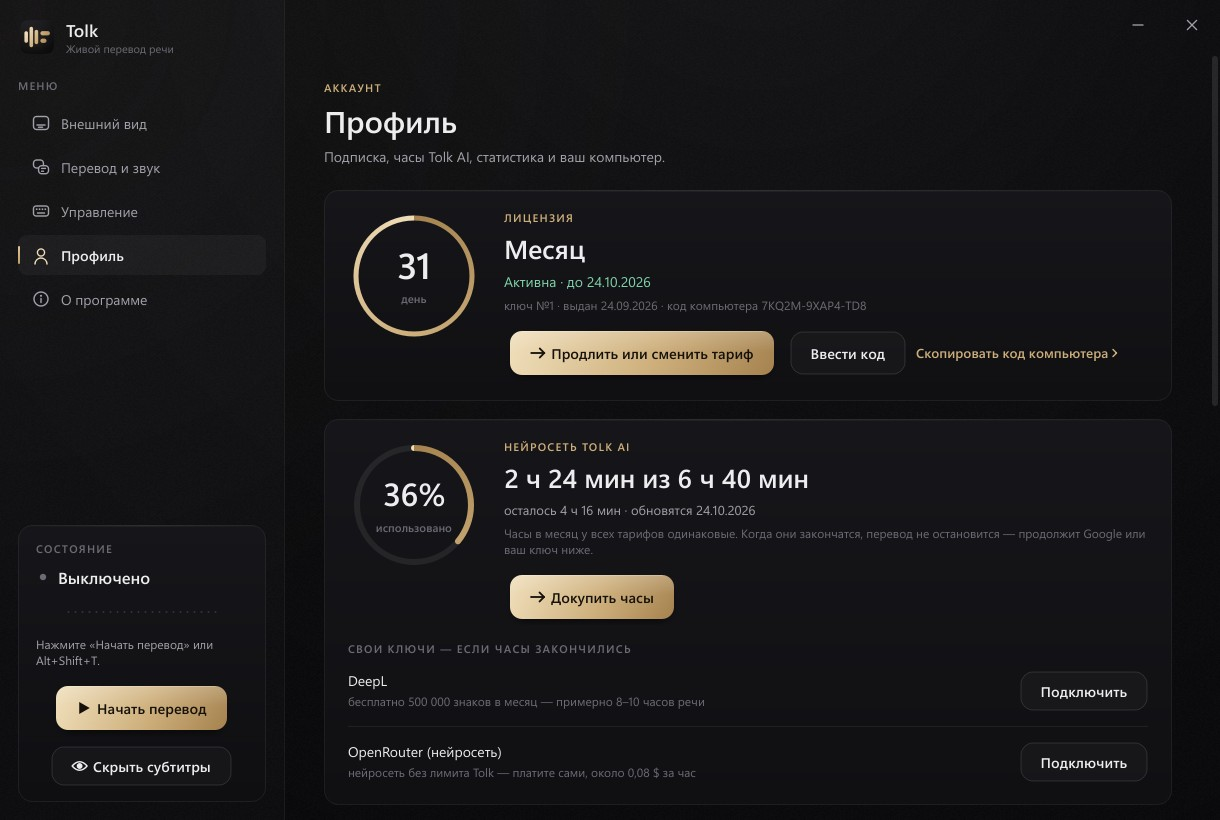
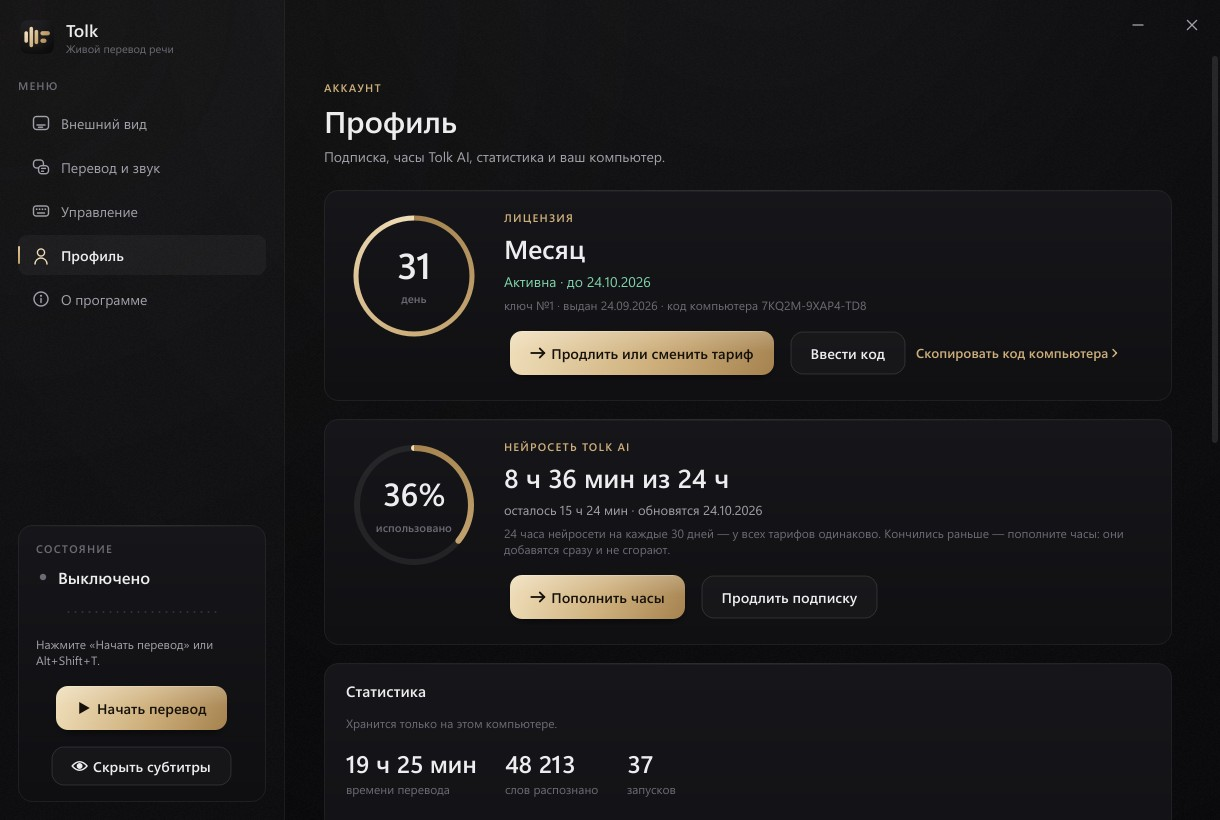
Страница продаж

diff --git a/docs/index.html b/docs/index.html
@@ -250,6 +250,20 @@
                       background: conic-gradient(from var(--ang), rgba(214,184,130,.15), var(--gold-a), rgba(214,184,130,.15) 35%, rgba(214,184,130,.15) 60%, var(--gold-b), rgba(214,184,130,.15));
                       -webkit-mask: linear-gradient(#000 0 0) content-box, linear-gradient(#000 0 0); -webkit-mask-composite: xor; mask-composite: exclude; animation: spin 8s linear infinite; }
   @keyframes spin { to { --ang: 360deg; } }
+  .trial { position: relative; display: inline-flex; align-items: center; gap: 12px; margin: 22px 0 4px; padding: 6px 18px 6px 6px;
+           border-radius: 999px; background: rgba(214,184,130,.06); color: var(--text2); font-size: 14px; text-decoration: none;
+           transition: transform .5s var(--spring), background .4s; }
+  .trial:after { content: ""; position: absolute; inset: 0; border-radius: inherit; padding: 1px; pointer-events: none;
+                 background: conic-gradient(from var(--ang), rgba(214,184,130,.12), var(--gold-a), rgba(214,184,130,.12) 30%, rgba(214,184,130,.12) 65%, var(--gold-b), rgba(214,184,130,.12));
+                 -webkit-mask: linear-gradient(#000 0 0) content-box, linear-gradient(#000 0 0); -webkit-mask-composite: xor; mask-composite: exclude; animation: spin 5s linear infinite; }
+  .trial:hover { transform: translateY(-2px); background: rgba(214,184,130,.1); }
+  .trial .t30 { position: relative; width: 38px; height: 38px; border-radius: 50%; display: grid; place-items: center; flex: none;
+                font: 700 15px/1 inherit; color: var(--gold-a); background: radial-gradient(circle at 50% 35%, rgba(243,228,194,.16), rgba(0,0,0,.2)); }
+  .trial .t30:before { content: ""; position: absolute; inset: 0; border-radius: 50%; padding: 2px;
+                       background: conic-gradient(from var(--ang), var(--gold-a), rgba(214,184,130,.1) 70%, var(--gold-a));
+                       -webkit-mask: linear-gradient(#000 0 0) content-box, linear-gradient(#000 0 0); -webkit-mask-composite: xor; mask-composite: exclude; animation: spin 2.6s linear infinite; }
+  .trial b { color: var(--text); font-weight: 600; }
+  @media (prefers-reduced-motion: reduce) { .trial:after, .trial .t30:before { animation: none; } }
   .pay { display: flex; justify-content: center; flex-wrap: wrap; gap: 10px; margin-top: 30px; }
   .pay span { display: inline-flex; align-items: center; gap: 8px; padding: 8px 14px; border-radius: 11px; border: 1px solid var(--line); color: var(--text2); font-size: 14px; background: rgba(255,255,255,.02); }
   .note { color: var(--text3); font-size: 13.5px; margin: 18px auto 0; max-width: 760px; text-align: center; }
@@ -417,6 +431,7 @@
         <a class="btn gold-btn dl magnet" href="#"><svg viewBox="0 0 24 24" fill="none" stroke="currentColor" stroke-width="2.2" stroke-linecap="round" stroke-linejoin="round"><path d="M12 3v12m0 0l-5-5m5 5l5-5M4 19h16"/></svg><span data-i="cta_download"></span></a>
         <a class="btn glass magnet" href="#pricing" data-i="cta_prices"></a>
       </div>
+      <a class="trial dl" href="#"><span class="t30">30</span><span data-ih="trial_pill"></span></a>
       <div class="fine" data-i="hero_fine"></div>
     </div>
     <div class="stage" id="stage">
@@ -578,6 +593,7 @@
     <span>© Tolk</span>
     <a href="https://t.me/sethosint" target="_blank" rel="noopener" data-i="foot_tg"></a>
     <a href="https://github.com/sethosint/tolk-releases/releases" target="_blank" rel="noopener" data-i="foot_versions"></a>
+    <a href="privacy.html" data-i="foot_privacy"></a>
   </div>
 </footer>
 
@@ -595,15 +611,15 @@ const TG = "https://t.me/sethosint";
 
 // Тарифы на случай, если магазин не ответил (настоящие — загружаются из магазина)
 const FALLBACK = {
-  month_h: 6.67,
+  month_h: 24,
   plans: [
-    { id: "week", price: "1.5", currency: "EUR", days: 7, ai_h: 1.56, per_month: 6.43 },
-    { id: "month", price: "5", currency: "EUR", days: 31, ai_h: 6.67, per_month: 5 },
-    { id: "quarter", price: "13", currency: "EUR", days: 92, ai_h: 6.67, per_month: 4.33 },
-    { id: "half", price: "24", currency: "EUR", days: 183, ai_h: 6.67, per_month: 4 },
-    { id: "year", price: "42", currency: "EUR", days: 366, ai_h: 6.67, per_month: 3.5, best: true }],
-  topups: [{ id: "h5", hours: 5, price: "1.5", currency: "EUR" }, { id: "h15", hours: 15, price: "4", currency: "EUR" },
-           { id: "h40", hours: 40, price: "9", currency: "EUR" }],
+    { id: "week", price: "1.5", currency: "EUR", days: 7, ai_h: 6, per_month: 6.43 },
+    { id: "month", price: "5", currency: "EUR", days: 31, ai_h: 24, per_month: 5 },
+    { id: "quarter", price: "13", currency: "EUR", days: 92, ai_h: 24, per_month: 4.33 },
+    { id: "half", price: "24", currency: "EUR", days: 183, ai_h: 24, per_month: 4 },
+    { id: "year", price: "42", currency: "EUR", days: 366, ai_h: 24, per_month: 3.5, best: true }],
+  topups: [{ id: "h6", hours: 6, price: "1.5", currency: "EUR" }, { id: "h24", hours: 24, price: "4", currency: "EUR" },
+           { id: "h60", hours: 60, price: "8", currency: "EUR" }],
   methods: [],
 };
 
@@ -646,7 +662,7 @@ const T = {
     hours_title: "+%s Tolk AI", hours_sub: "не сгорают до конца подписки", per_hour: "%s за час",
     hours_feats: ["Добавятся к вашему ключу", "Действуют до конца подписки", "Переезжают при продлении"],
     h: "ч", m: "мин",
-    p_note: "Когда часы Tolk AI закончились, перевод не останавливается: Tolk переводит через Google или ваш бесплатный ключ DeepL. Часы обновляются каждые 30 дней, докупленные не сгорают.",
+    p_note: "24 часа нейросети на каждые 30 дней — это все пары за месяц. Кончились раньше — пополните часы в пару кликов: добавятся сразу и не сгорают, а перевод тем временем не останавливается.",
     pay_card: "Банковская карта", pay_stars: "Звёзды Telegram",
     so_over: "Скоро", so_h2: "Что появится в Tolk", so_sub: "Уже в работе — придут сами, с автообновлением.", soon: "Скоро",
     so1_t: "Озвучка перевода", so1_p: "Tolk читает перевод голосом и приглушает оригинал — как дубляж в кино.",
@@ -660,7 +676,8 @@ const T = {
     q_over: "Вопросы", q_h2: "Частые вопросы",
     faq: [
       ["Подойдёт для лекций и конференций на словацком?", "Да, это главный сценарий. Онлайн-лекция или конференция — выберите вкладку браузера или программу (Zoom, Teams). Лекция в аудитории — микрофон ноутбука. Поставьте язык речи «Словацкий» — распознавание станет точнее и быстрее. Названия предметов и термины курса добавьте в словарь."],
-      ["Сколько часов нейросети я получу?", "В любом тарифе — 6 ч 40 мин живого перевода нейросетью Tolk AI в месяц: это примерно 5–6 лекций со всеми паузами. Сколько осталось — видно в профиле. Не хватит — докупите часы на сайте или в Tolk, либо подключите свой бесплатный ключ DeepL. Перевод не останавливается никогда."],
+      ["Сколько часов нейросети я получу?", "В любом тарифе — 24 часа живого перевода нейросетью Tolk AI на каждые 30 дней (в недельном — 6 часов): этого хватает на все пары. Сколько использовано — видно в профиле: часы и проценты. Не хватит — пополните часы на сайте или прямо в Tolk, они добавятся сразу после оплаты. Перевод не останавливается никогда."],
+      ["Можно попробовать бесплатно?", "Да — 30 минут перевода нейросетью бесплатно, без оплаты и регистрации. Скачайте Tolk и в окне активации нажмите «Попробовать бесплатно». Понравится — выберите тариф, от 1,5 € в неделю."],
       ["Купил на сайте — что дальше?", "Вам придёт код активации вида TOLK-XXXX-XXXX-XXXX. Скачайте Tolk и вставьте код в окне активации — подписка привяжется к вашему компьютеру. Код на часы вводится в «Профиль → Ввести код»."],
       ["Как переводить только одну вкладку браузера?", "В Tolk откройте «Перевод и звук → Расширение для вкладок» и подключите расширение (около минуты). Потом нажимайте значок Tolk на нужной вкладке — Tolk сразу переводит только её. Работает в Chrome, Edge, Opera, Yandex, Brave, Vivaldi и Firefox."],
       ["Windows пишет «Система Windows защитила ваш компьютер» — это нормально?", "Да. Так Windows реагирует на новые программы без платной цифровой подписи. Нажмите «Подробнее» → «Выполнить в любом случае»."],
@@ -668,7 +685,7 @@ const T = {
       ["Какие языки?", "Распознаёт речь на 90+ языках и переводит на 30+. Интерфейс — на русском, украинском, словацком и английском."],
       ["Что с приватностью?", "Звук никуда не отправляется: речь распознаётся на вашем компьютере. Для перевода уходит только распознанный текст."]],
     fin_a: "Смотрите и понимайте", fin_b: "на любом языке",
-    foot_tg: "Поддержка — Telegram @sethosint", foot_versions: "Все версии",
+    foot_tg: "Поддержка — Telegram @sethosint", foot_versions: "Все версии", foot_privacy: "Конфиденциальность", trial_pill: "<b>30 минут бесплатно</b> — без оплаты и регистрации",
     demo: [["Toto bude určite na skúške, takže si to zapíšte.", "Это точно будет на экзамене, так что запишите."],
            ["Zápočet dostanete, ak odovzdáte obe zadania načas.", "Зачёт получите, если сдадите оба задания вовремя."],
            ["Thanks for joining the call, let's get started.", "Спасибо, что подключились, давайте начнём."],
@@ -725,7 +742,7 @@ const T = {
     hours_title: "+%s Tolk AI", hours_sub: "не згорають до кінця підписки", per_hour: "%s за годину",
     hours_feats: ["Додадуться до вашого ключа", "Діють до кінця підписки", "Переходять при продовженні"],
     h: "год", m: "хв",
-    p_note: "Коли години Tolk AI закінчилися, переклад не зупиняється: Tolk перекладає через Google або ваш безкоштовний ключ DeepL. Години оновлюються кожні 30 днів, докуплені не згорають.",
+    p_note: "24 години нейромережі на кожні 30 днів — це всі пари за місяць. Закінчилися раніше — поповніть години у два кліки: додадуться одразу й не згорають, а переклад тим часом не зупиняється.",
     pay_card: "Банківська картка", pay_stars: "Зірки Telegram",
     so_over: "Незабаром", so_h2: "Що з'явиться в Tolk", so_sub: "Уже в роботі — прийдуть самі, з автооновленням.", soon: "Незабаром",
     so1_t: "Озвучення перекладу", so1_p: "Tolk читає переклад голосом і приглушує оригінал — як дубляж у кіно.",
@@ -739,7 +756,8 @@ const T = {
     q_over: "Питання", q_h2: "Часті питання",
     faq: [
       ["Підійде для лекцій і конференцій словацькою?", "Так, це головний сценарій. Онлайн-лекція чи конференція — оберіть вкладку браузера або програму (Zoom, Teams). Лекція в аудиторії — мікрофон ноутбука. Поставте мову мовлення «Словацька» — розпізнавання стане точнішим і швидшим. Назви предметів і терміни курсу додайте до словника."],
-      ["Скільки годин нейромережі я отримаю?", "У будь-якому тарифі — 6 год 40 хв живого перекладу нейромережею Tolk AI на місяць: це приблизно 5–6 лекцій з усіма паузами. Скільки лишилося — видно в профілі. Не вистачить — докупіть години на сайті чи в Tolk або підключіть свій безкоштовний ключ DeepL. Переклад не зупиняється ніколи."],
+      ["Скільки годин нейромережі я отримаю?", "У будь-якому тарифі — 24 години живого перекладу нейромережею Tolk AI на кожні 30 днів (у тижневому — 6 годин): цього вистачає на всі пари. Скільки використано — видно в профілі: години й відсотки. Не вистачить — поповніть години на сайті або просто в Tolk, вони додадуться одразу після оплати. Переклад не зупиняється ніколи."],
+      ["Можна спробувати безкоштовно?", "Так — 30 хвилин перекладу нейромережею безкоштовно, без оплати й реєстрації. Завантажте Tolk і у вікні активації натисніть «Спробувати безкоштовно». Сподобається — оберіть тариф, від 1,5 € на тиждень."],
       ["Купив на сайті — що далі?", "Вам прийде код активації вигляду TOLK-XXXX-XXXX-XXXX. Завантажте Tolk і вставте код у вікні активації — підписка прив'яжеться до вашого комп'ютера. Код на години вводиться в «Профіль → Ввести код»."],
       ["Як перекладати лише одну вкладку браузера?", "У Tolk відкрийте «Переклад і звук → Розширення для вкладок» і підключіть розширення (близько хвилини). Потім натискайте значок Tolk на потрібній вкладці — Tolk одразу перекладає лише її. Працює в Chrome, Edge, Opera, Yandex, Brave, Vivaldi і Firefox."],
       ["Windows пише «Систему Windows захищено» — це нормально?", "Так. Так Windows реагує на нові програми без платного цифрового підпису. Натисніть «Докладніше» → «Усе одно запустити»."],
@@ -747,7 +765,7 @@ const T = {
       ["Які мови?", "Розпізнає мовлення 90+ мовами й перекладає на 30+. Інтерфейс — українською, російською, словацькою та англійською."],
       ["Що з приватністю?", "Звук нікуди не надсилається: мовлення розпізнається на вашому комп'ютері. Для перекладу йде лише розпізнаний текст."]],
     fin_a: "Дивіться й розумійте", fin_b: "будь-якою мовою",
-    foot_tg: "Підтримка — Telegram @sethosint", foot_versions: "Усі версії",
+    foot_tg: "Підтримка — Telegram @sethosint", foot_versions: "Усі версії", foot_privacy: "Конфіденційність", trial_pill: "<b>30 хвилин безкоштовно</b> — без оплати й реєстрації",
     demo: [["Toto bude určite na skúške, takže si to zapíšte.", "Це точно буде на іспиті, тож запишіть."],
            ["Zápočet dostanete, ak odovzdáte obe zadania načas.", "Залік отримаєте, якщо здасте обидва завдання вчасно."],
            ["Thanks for joining the call, let's get started.", "Дякую, що долучилися, почнімо."],
@@ -804,7 +822,7 @@ const T = {
     hours_title: "+%s Tolk AI", hours_sub: "nepropadnú do konca predplatného", per_hour: "%s za hodinu",
     hours_feats: ["Pridajú sa k vášmu kľúču", "Platia do konca predplatného", "Pri predĺžení sa presunú"],
     h: "h", m: "min",
-    p_note: "Keď sa hodiny Tolk AI minú, preklad sa nezastaví: Tolk prekladá cez Google alebo váš bezplatný kľúč DeepL. Hodiny sa obnovujú každých 30 dní, dokúpené nepropadnú.",
+    p_note: "24 hodín neurónovej siete na každých 30 dní — to sú všetky prednášky za mesiac. Minuli sa skôr? Doplňte hodiny na pár kliknutí: pridajú sa hneď a nepropadajú, a preklad sa medzitým nezastaví.",
     pay_card: "Platobná karta", pay_stars: "Hviezdy Telegram",
     so_over: "Čoskoro", so_h2: "Čo pribudne v Tolku", so_sub: "Už na tom pracujeme — prídu samy s automatickou aktualizáciou.", soon: "Čoskoro",
     so1_t: "Dabing prekladu", so1_p: "Tolk číta preklad nahlas a stlmí originál — ako dabing vo filme.",
@@ -818,7 +836,8 @@ const T = {
     q_over: "Otázky", q_h2: "Časté otázky",
     faq: [
       ["Hodí sa na prednášky a konferencie?", "Áno, na to je stavaný. Online prednáška či konferencia — vyberte kartu prehliadača alebo program (Zoom, Teams). Prednáška v posluchárni — mikrofón notebooku. Nastavte jazyk reči, napríklad angličtinu — rozpoznávanie bude presnejšie a rýchlejšie. Názvy predmetov a termíny pridajte do slovníka."],
-      ["Koľko hodín neurónovej siete dostanem?", "V každom pláne 6 h 40 min živého prekladu neurónovou sieťou Tolk AI mesačne — približne 5–6 prednášok so všetkými pauzami. Koľko zostáva, vidno v profile. Ak nebude stačiť, dokúpte hodiny na stránke či v Tolku, alebo pripojte vlastný bezplatný kľúč DeepL. Preklad sa nikdy nezastaví."],
+      ["Koľko hodín neurónovej siete dostanem?", "V každom pláne 24 hodín živého prekladu neurónovou sieťou Tolk AI na každých 30 dní (v týždennom 6 hodín): stačí to na všetky prednášky. Koľko ste využili, vidno v profile — hodiny aj percentá. Ak nebude stačiť, doplňte hodiny na stránke alebo priamo v Tolku, pridajú sa hneď po zaplatení. Preklad sa nikdy nezastaví."],
+      ["Dá sa to vyskúšať zadarmo?", "Áno — 30 minút prekladu neurónovou sieťou zadarmo, bez platby a registrácie. Stiahnite Tolk a v okne aktivácie kliknite na „Vyskúšať zadarmo“. Ak sa vám zapáči, vyberte si plán od 1,5 € týždenne."],
       ["Kúpil som na stránke — čo ďalej?", "Dostanete aktivačný kód v tvare TOLK-XXXX-XXXX-XXXX. Stiahnite Tolk a kód vložte v okne aktivácie — predplatné sa naviaže na váš počítač. Kód na hodiny sa zadáva v „Profil → Zadať kód“."],
       ["Ako prekladať len jednu kartu prehliadača?", "V Tolku otvorte „Preklad a zvuk → Rozšírenie pre karty“ a pripojte rozšírenie (asi minúta). Potom klikajte na ikonu Tolk na požadovanej karte — Tolk hneď prekladá len ju. Funguje v Chrome, Edge, Opere, Yandex, Brave, Vivaldi a Firefoxe."],
       ["Windows píše „Systém Windows ochránil váš počítač“ — je to v poriadku?", "Áno. Tak Windows reaguje na nové programy bez plateného digitálneho podpisu. Kliknite na „Ďalšie informácie“ → „Spustiť aj tak“."],
@@ -826,7 +845,7 @@ const T = {
       ["Aké jazyky?", "Rozpozná reč v 90+ jazykoch a prekladá do 30+. Rozhranie — slovensky, ukrajinsky, rusky a anglicky."],
       ["A súkromie?", "Zvuk sa nikam neposiela: reč sa rozpoznáva vo vašom počítači. Na preklad ide iba rozpoznaný text."]],
     fin_a: "Pozerajte a rozumejte", fin_b: "v akomkoľvek jazyku",
-    foot_tg: "Podpora — Telegram @sethosint", foot_versions: "Všetky verzie",
+    foot_tg: "Podpora — Telegram @sethosint", foot_versions: "Všetky verzie", foot_privacy: "Ochrana súkromia", trial_pill: "<b>30 minút zadarmo</b> — bez platby a registrácie",
     demo: [["This will definitely be on the exam, so write it down.", "Toto bude určite na skúške, tak si to zapíšte."],
            ["Thanks for joining the call, let's get started.", "Vďaka, že ste sa pripojili, poďme na to."],
            ["No cap, that last round was insane.", "Bez preháňania, posledné kolo bolo úplne šialené."]],
@@ -882,7 +901,7 @@ const T = {
     hours_title: "+%s Tolk AI", hours_sub: "don't expire until your subscription ends", per_hour: "%s per hour",
     hours_feats: ["Added to your key", "Valid until your subscription ends", "Move over when you renew"],
     h: "h", m: "min",
-    p_note: "When your Tolk AI hours run out, translation doesn't stop: Tolk translates via Google or your free DeepL key. Hours renew every 30 days; bought hours don't expire.",
+    p_note: "24 hours of AI every 30 days — enough for every lecture in a month. Ran out early? Top up in a couple of clicks: hours are added right away and never expire, and translation keeps going meanwhile.",
     pay_card: "Bank card", pay_stars: "Telegram Stars",
     so_over: "Coming soon", so_h2: "What's coming to Tolk", so_sub: "Already in the works — they'll arrive with an automatic update.", soon: "Soon",
     so1_t: "Voice-over translation", so1_p: "Tolk reads the translation aloud and lowers the original — like dubbing in a film.",
@@ -896,7 +915,8 @@ const T = {
     q_over: "FAQ", q_h2: "Frequently asked questions",
     faq: [
       ["Is it good for lectures and conferences in Slovak?", "Yes, that's what it's built for. Online lecture or conference — pick a browser tab or an app (Zoom, Teams). A lecture in the room — your laptop mic. Set the speech language to Slovak for faster, more accurate recognition. Add course names and terms to the glossary."],
-      ["How many neural network hours do I get?", "Every plan includes 6 h 40 min of live Tolk AI translation a month — about 5–6 lectures with all the pauses. Your profile shows what's left. Need more? Buy hours here or in Tolk, or connect your own free DeepL key. Translation never stops."],
+      ["How many neural network hours do I get?", "Every plan includes 24 hours of live Tolk AI translation every 30 days (the weekly plan — 6 hours): enough for all your lectures. Your profile shows what's used, in hours and percent. Need more? Top up here or right in Tolk — the hours are added right after payment. Translation never stops."],
+      ["Can I try it for free?", "Yes — 30 minutes of AI translation for free, no payment and no sign-up. Download Tolk and click \"Try it free\" in the activation window. Like it? Plans start at €1.5 a week."],
       ["I bought on the website — what now?", "You get an activation code like TOLK-XXXX-XXXX-XXXX. Download Tolk and paste the code in the activation window — the subscription binds to your computer. An hours code goes into “Profile → Enter a code”."],
       ["How do I translate just one browser tab?", "In Tolk, open “Translation & sound → Extension for tabs” and connect the extension (about a minute). Then click the Tolk icon on the tab you need — Tolk translates only that tab. Works in Chrome, Edge, Opera, Yandex, Brave, Vivaldi and Firefox."],
       ["Windows says “Windows protected your PC” — is that OK?", "Yes. That's how Windows treats new apps without a paid code-signing certificate. Click “More info” → “Run anyway”."],
@@ -904,7 +924,7 @@ const T = {
       ["Which languages?", "Recognizes speech in 90+ languages and translates into 30+. The interface is in English, Ukrainian, Slovak and Russian."],
       ["What about privacy?", "Audio never leaves your computer: speech is recognized locally. Only the recognized text is sent for translation."]],
     fin_a: "Watch and understand", fin_b: "in any language",
-    foot_tg: "Support — Telegram @sethosint", foot_versions: "All versions",
+    foot_tg: "Support — Telegram @sethosint", foot_versions: "All versions", foot_privacy: "Privacy", trial_pill: "<b>30 minutes free</b> — no payment, no sign-up",
     demo: [["Toto bude určite na skúške, takže si to zapíšte.", "This will definitely be on the exam, so write it down."],
            ["Danke, dass ihr dabei seid, lasst uns anfangen.", "Thanks for joining, let's get started."],
            ["Sin mentir, esa última ronda fue una locura.", "No cap, that last round was insane."]],
@@ -966,6 +986,7 @@ function apply(l) {
   lang = l;
   document.documentElement.lang = l;
   $$("[data-i]").forEach((el) => { if (typeof d()[el.dataset.i] === "string") el.textContent = d()[el.dataset.i]; });
+  $$("[data-ih]").forEach((el) => { el.innerHTML = d()[el.dataset.ih] || ""; });     // свои строки с <b> — не из ввода
   $$("#langs button").forEach((b) => b.classList.toggle("on", b.dataset.l === l));
   document.title = `Tolk — ${d().hero_h1a.toLowerCase()} ${d().hero_h1b}`;
   store("tolk-lang", l);
@@ -1049,7 +1070,7 @@ async function fetchCatalog() {
 
 function planCard(p) {
   const days = p.days || 0, name = (d().plan_names || {})[p.id] || p.title;
-  const ai = days && days < 28 ? fmt(d().ai_week, hours(p.ai_h)) : fmt(d().ai_line, hours(catalog.month_h || 6.67));
+  const ai = days && days < 28 ? fmt(d().ai_week, hours(p.ai_h)) : fmt(d().ai_line, hours(catalog.month_h || 24));
   const per = days >= 60 && p.per_month ? fmt(d().per_month, money(p.per_month, p.currency)) : "";
   return `<div class="card price ${p.best ? "best" : ""} rv">
     <div class="name">${esc(name)}${p.best ? `<span class="badge">${esc(d().best)}</span>` : ""}</div>

diff --git a/docs/privacy.html b/docs/privacy.html
@@ -1,0 +1,121 @@
+<!doctype html>
+<html lang="ru">
+<head>
+<meta charset="utf-8">
+<meta name="viewport" content="width=device-width, initial-scale=1">
+<title>Tolk — конфиденциальность · Privacy</title>
+<meta name="description" content="Как Tolk и расширение Tolk для браузера обращаются с данными. How Tolk and the Tolk browser extension handle data.">
+<link rel="icon" href="img/favicon.png">
+<style>
+  :root { color-scheme: dark;
+    --bg: #0a0a0c; --line: rgba(255,255,255,.08); --text: #f5f1e8; --text2: #b9b4aa; --text3: #7d786f;
+    --gold-a: #f3e4c2; --gold-b: #d6b882; --gold-c: #a9824c; }
+  * { box-sizing: border-box; }
+  body { margin: 0; background: radial-gradient(1200px 600px at 80% -10%, rgba(214,184,130,.10), transparent 60%), var(--bg);
+         color: var(--text); font: 16px/1.65 "Segoe UI", system-ui, -apple-system, sans-serif; }
+  .wrap { max-width: 820px; margin: 0 auto; padding: 56px 20px 80px; }
+  a { color: var(--gold-b); }
+  .top { display: flex; align-items: center; justify-content: space-between; gap: 16px; margin-bottom: 40px; }
+  .brand { display: flex; align-items: center; gap: 10px; color: var(--text); text-decoration: none; font-weight: 600; font-size: 18px; }
+  .brand img { width: 28px; height: 28px; }
+  .langs a { margin-left: 14px; font-size: 14px; text-decoration: none; }
+  .overline { font-size: 12px; font-weight: 700; letter-spacing: .18em; text-transform: uppercase; color: var(--gold-b); }
+  h1 { font-size: clamp(30px, 5vw, 44px); line-height: 1.15; margin: 10px 0 8px; font-weight: 600; }
+  .upd { color: var(--text3); font-size: 14px; margin: 0 0 36px; }
+  h2 { font-size: 20px; margin: 34px 0 8px; font-weight: 600; }
+  p, li { color: var(--text2); }
+  ul { padding-left: 20px; }
+  .box { border: 1px solid var(--line); border-radius: 18px; padding: 22px 24px; background: rgba(255,255,255,.03); margin: 24px 0; }
+  .box p { margin: 0; color: var(--text); }
+  hr { border: 0; border-top: 1px solid var(--line); margin: 64px 0; }
+</style>
+</head>
+<body>
+<div class="wrap">
+  <div class="top">
+    <a class="brand" href="./"><img src="img/icon.png" alt="">Tolk</a>
+    <div class="langs"><a href="#ru">Русский</a><a href="#en">English</a></div>
+  </div>
+
+  <section id="ru" lang="ru">
+    <div class="overline">Конфиденциальность</div>
+    <h1>Как Tolk обращается с данными</h1>
+    <p class="upd">Обновлено 24 сентября 2026 года</p>
+    <div class="box"><p>Звук никогда не покидает ваш компьютер. Для перевода отправляется только распознанный текст — и он
+      нигде не сохраняется. Мы не продаём данные, не показываем рекламу и не следим за вами.</p></div>
+
+    <h2>Расширение «Tolk — перевод вкладки»</h2>
+    <ul>
+      <li>Работает, только когда вы сами нажимаете значок Tolk на вкладке. Повторное нажатие — выключить.</li>
+      <li>Звук этой вкладки передаётся только программе Tolk на этом же компьютере (адрес 127.0.0.1) и нигде не сохраняется.</li>
+      <li>Расширение ничего не отправляет в интернет, не собирает историю посещений, личные данные и статистику,
+        не использует рекламу и не загружает код с серверов.</li>
+      <li>Разрешения: в Chrome, Edge и других Chromium-браузерах — захват звука вкладки (tabCapture), фоновый документ
+        для обработки звука (offscreen) и хранение номера включённой вкладки на время сеанса (storage); в Firefox —
+        доступ к вкладке, на которой вы нажали значок (activeTab, scripting).</li>
+    </ul>
+
+    <h2>Программа Tolk</h2>
+    <ul>
+      <li>Речь распознаётся на вашем компьютере. Звук никуда не отправляется.</li>
+      <li>Для перевода распознанные фрагменты текста (несколько слов и короткий контекст перед ними) по защищённому
+        соединению уходят на сервер Tolk, а он передаёт их нейросети-переводчику (через OpenRouter). Если нейросеть
+        недоступна, фрагмент переводит Google Переводчик. Тексты на сервере Tolk не сохраняются.</li>
+      <li>Сервер Tolk хранит только то, что нужно для подписки: ключ лицензии, обезличенный код компьютера, тариф,
+        сколько часов Tolk AI использовано, и сведения о покупках (тариф, дата, способ оплаты, код комментария).</li>
+      <li>Оплату звёздами Telegram проводит Telegram. Переводы на карту и в криптовалюте продавец проверяет вручную по коду
+        в комментарии.</li>
+      <li>Статистика в профиле (время перевода, число слов) хранится только на вашем компьютере.</li>
+    </ul>
+
+    <h2>Сайт</h2>
+    <p>Сайт не использует cookies для слежки и аналитику. В браузере сохраняются только выбранный язык и незавершённая
+      покупка. Шрифты загружаются с Google Fonts, тарифы — с сервера Tolk.</p>
+
+    <h2>Связь</h2>
+    <p>Вопросы и удаление данных о покупках — Telegram <a href="https://t.me/sethosint">@sethosint</a>.</p>
+  </section>
+
+  <hr>
+
+  <section id="en" lang="en">
+    <div class="overline">Privacy</div>
+    <h1>How Tolk handles your data</h1>
+    <p class="upd">Updated September 24, 2026</p>
+    <div class="box"><p>Audio never leaves your computer. Only recognized text is sent for translation, and it is not
+      stored anywhere. We don't sell data, show ads or track you.</p></div>
+
+    <h2>The “Tolk — live tab translation” extension</h2>
+    <ul>
+      <li>It works only when you click the Tolk icon on a tab. Click again to turn it off.</li>
+      <li>That tab's sound goes only to the Tolk app on the same computer (127.0.0.1) and is not stored.</li>
+      <li>The extension sends nothing to the internet, collects no browsing history, personal data or analytics,
+        shows no ads and loads no remote code.</li>
+      <li>Permissions: in Chrome, Edge and other Chromium browsers — tab audio capture (tabCapture), an offscreen document
+        to process the audio (offscreen) and remembering the active tab for the session (storage); in Firefox — access to
+        the tab where you clicked the icon (activeTab, scripting).</li>
+    </ul>
+
+    <h2>The Tolk app</h2>
+    <ul>
+      <li>Speech is recognized on your computer. Audio is never sent anywhere.</li>
+      <li>For translation, recognized text fragments (a few words plus a short preceding context) are sent over an encrypted
+        connection to the Tolk server, which passes them to an AI translation model (via OpenRouter). If the AI is
+        unavailable, Google Translate translates the fragment. The Tolk server does not store these texts.</li>
+      <li>The Tolk server keeps only what the subscription needs: the license key, an anonymous computer code, the plan,
+        how many Tolk AI hours were used, and purchase records (plan, date, payment method, comment code).</li>
+      <li>Telegram Stars payments are processed by Telegram. Card and crypto transfers are checked manually by the seller
+        using the comment code.</li>
+      <li>Profile statistics (translation time, word count) are stored only on your computer.</li>
+    </ul>
+
+    <h2>Website</h2>
+    <p>The website uses no tracking cookies or analytics. Your browser keeps only your language choice and an unfinished
+      purchase. Fonts load from Google Fonts, prices from the Tolk server.</p>
+
+    <h2>Contact</h2>
+    <p>Questions or deleting your purchase data — Telegram <a href="https://t.me/sethosint">@sethosint</a>.</p>
+  </section>
+</div>
+</body>
+</html>
